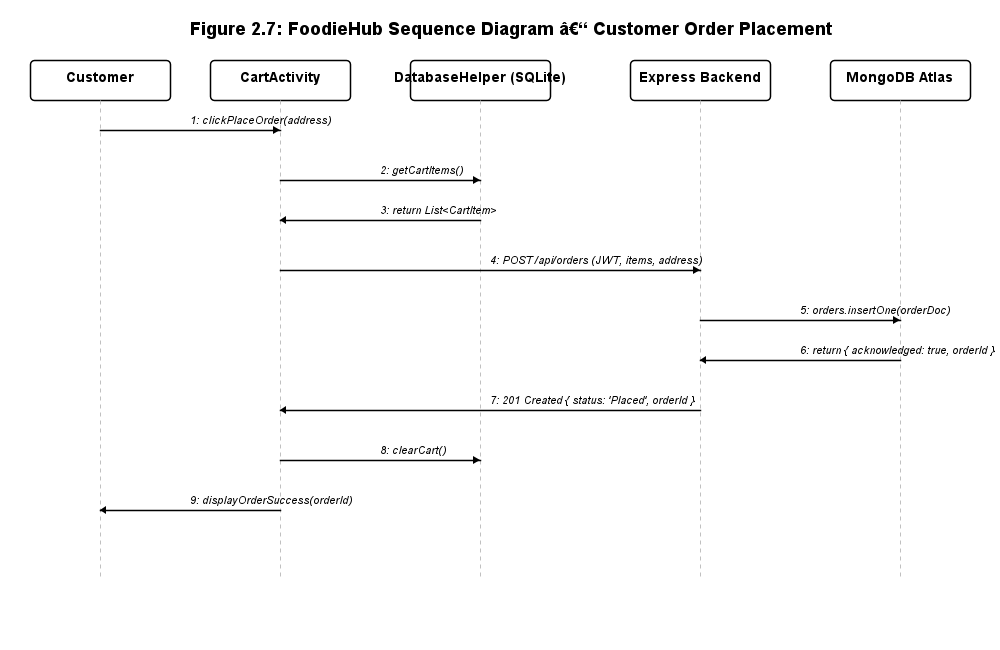
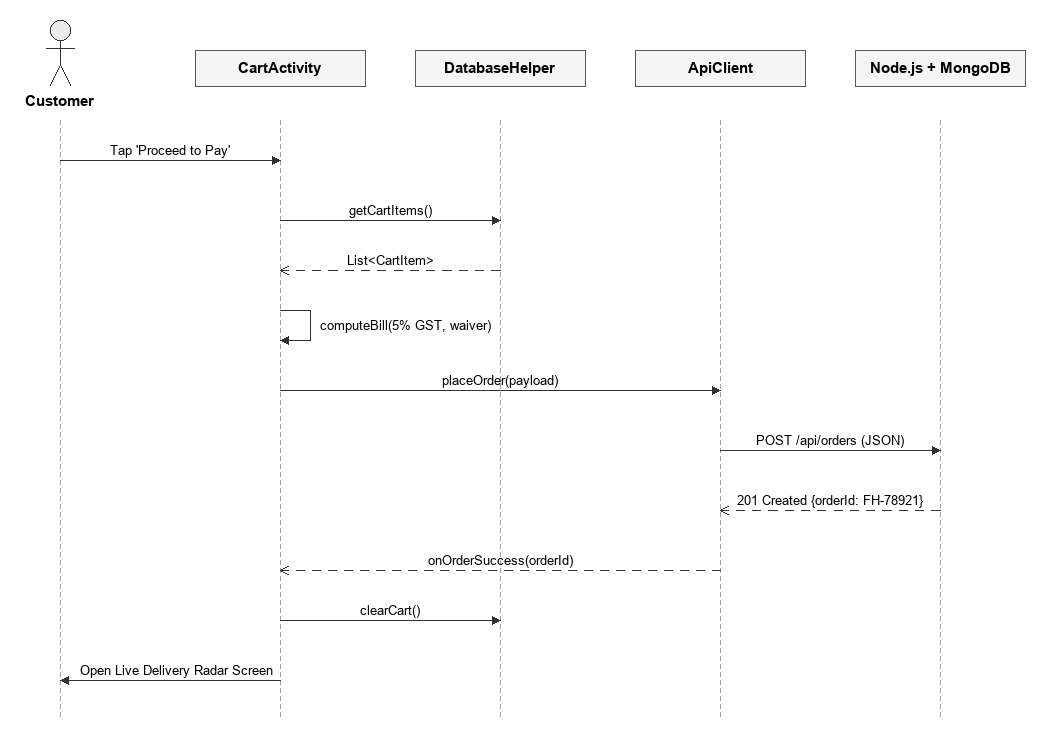
docs: regenerate academic sequence, component, and module hierarchy diagrams

diff --git a/docs/diagrams/gen_seq_comp.py b/docs/diagrams/gen_seq_comp.py
@@ -1,0 +1,161 @@
+import os
+from PIL import Image, ImageDraw, ImageFont, ImageOps
+
+font_dir = r'C:\Windows\Fonts'
+f_cls = ImageFont.truetype(os.path.join(font_dir, 'arialbd.ttf'), 15)
+f_msg = ImageFont.truetype(os.path.join(font_dir, 'arial.ttf'), 13)
+f_box = ImageFont.truetype(os.path.join(font_dir, 'arial.ttf'), 14)
+f_hdr = ImageFont.truetype(os.path.join(font_dir, 'arialbd.ttf'), 16)
+
+box_fill = (245, 245, 245)
+border_c = (90, 90, 90)
+line_c = (50, 50, 50)
+text_c = (0, 0, 0)
+
+# ==============================================================
+# 1. SEQUENCE DIAGRAM
+# ==============================================================
+w = 1100
+h = 750
+img = Image.new('RGB', (w, h), (255, 255, 255))
+draw = ImageDraw.Draw(img)
+
+cols = [
+    ('Customer', 100, True),
+    ('CartActivity', 320, False),
+    ('DatabaseHelper', 540, False),
+    ('ApiClient', 760, False),
+    ('Node.js + MongoDB', 980, False)
+]
+
+for name, cx, is_actor in cols:
+    if is_actor:
+        draw.ellipse([cx - 10, 20, cx + 10, 40], fill=(235, 235, 235), outline=line_c, width=1)
+        draw.line([cx, 40, cx, 65], fill=line_c, width=1)
+        draw.line([cx - 14, 48, cx + 14, 48], fill=line_c, width=1)
+        draw.line([cx, 65, cx - 10, 85], fill=line_c, width=1)
+        draw.line([cx, 65, cx + 10, 85], fill=line_c, width=1)
+        tb = draw.textbbox((0, 0), name, font=f_cls)
+        tw = tb[2] - tb[0]
+        draw.text((cx - tw // 2, 92), name, font=f_cls, fill=text_c)
+    else:
+        bw, bh = 170, 36
+        draw.rectangle([cx - bw//2, 50, cx + bw//2, 50 + bh], fill=box_fill, outline=border_c, width=1)
+        tb = draw.textbbox((0, 0), name, font=f_cls)
+        tw = tb[2] - tb[0]
+        th = tb[3] - tb[1]
+        draw.text((cx - tw // 2, 50 + (bh - th) // 2 - 2), name, font=f_cls, fill=text_c)
+
+for _, cx, _ in cols:
+    for y in range(120, h - 30, 8):
+        draw.line([cx, y, cx, y + 4], fill=(160, 160, 160), width=1)
+
+def send_msg(x1, x2, y, text, dotted=False):
+    if dotted:
+        dx = x2 - x1
+        steps = int(abs(dx) / 8)
+        for i in range(steps):
+            if i % 2 == 0:
+                sx = x1 + (dx * i / steps)
+                ex = x1 + (dx * (i + 1) / steps)
+                draw.line([sx, y, ex, y], fill=line_c, width=1)
+        dir_sign = 1 if x2 > x1 else -1
+        draw.line([x2, y, x2 - dir_sign * 8, y - 4], fill=line_c, width=1)
+        draw.line([x2, y, x2 - dir_sign * 8, y + 4], fill=line_c, width=1)
+    else:
+        draw.line([x1, y, x2, y], fill=line_c, width=1)
+        dir_sign = 1 if x2 > x1 else -1
+        draw.polygon([(x2, y), (x2 - dir_sign * 8, y - 4), (x2 - dir_sign * 8, y + 4)], fill=line_c)
+        
+    tb = draw.textbbox((0, 0), text, font=f_msg)
+    tw = tb[2] - tb[0]
+    draw.text(((x1 + x2)//2 - tw//2, y - 17), text, font=f_msg, fill=text_c)
+
+send_msg(100, 320, 160, "Tap 'Proceed to Pay'")
+send_msg(320, 540, 220, "getCartItems()")
+send_msg(540, 320, 270, "List<CartItem>", dotted=True)
+
+draw.line([320, 310, 350, 310], fill=line_c, width=1)
+draw.line([350, 310, 350, 340], fill=line_c, width=1)
+draw.line([350, 340, 320, 340], fill=line_c, width=1)
+draw.polygon([(320, 340), (328, 336), (328, 344)], fill=line_c)
+draw.text((360, 318), "computeBill(5% GST, waiver)", font=f_msg, fill=text_c)
+
+send_msg(320, 760, 390, "placeOrder(payload)")
+send_msg(760, 980, 450, "POST /api/orders (JSON)")
+send_msg(980, 760, 510, "201 Created {orderId: FH-78921}", dotted=True)
+send_msg(760, 320, 570, "onOrderSuccess(orderId)", dotted=True)
+send_msg(320, 540, 620, "clearCart()")
+
+draw.line([320, 680, 100, 680], fill=line_c, width=1)
+draw.polygon([(100, 680), (108, 676), (108, 684)], fill=line_c)
+draw.text((120, 663), "Open Live Delivery Radar Screen", font=f_msg, fill=text_c)
+
+inv = ImageOps.invert(img.convert('L'))
+bbox = inv.getbbox()
+pad = 25
+crop_box = (max(0, bbox[0] - pad), max(0, bbox[1] - pad), min(w, bbox[2] + pad), min(h, bbox[3] + pad))
+cropped = img.crop(crop_box)
+cropped.save(r'C:\FoodieHub\docs\diagrams\07_sequence_diagram_order.png', dpi=(300, 300))
+cropped.save(r'C:\FoodieHub\docs\diagrams\figure_2_7_academic.png', dpi=(300, 300))
+print("Sequence Diagram OK:", cropped.size)
+
+# ==============================================================
+# 2. COMPONENT DIAGRAM (4 Clean Horizontal Layers Matching Page 17)
+# ==============================================================
+cw = 1000
+ch = 680
+cimg = Image.new('RGB', (cw, ch), (255, 255, 255))
+cdraw = ImageDraw.Draw(cimg)
+
+def draw_layer_container(y, h, title, sub_boxes):
+    x = 60
+    w = 880
+    cdraw.rectangle([x, y, x + w, y + h], fill=(250, 250, 250), outline=(130, 130, 130), width=1)
+    # Title
+    cdraw.text((x + 14, y + 10), title, font=f_hdr, fill=(40, 40, 40))
+    # Sub boxes
+    sb_w = (w - 28 - (len(sub_boxes) - 1) * 16) // len(sub_boxes)
+    for i, sb_name in enumerate(sub_boxes):
+        sb_x = x + 14 + i * (sb_w + 16)
+        sb_y = y + 42
+        sb_h = h - 56
+        cdraw.rectangle([sb_x, sb_y, sb_x + sb_w, sb_y + sb_h], fill=(238, 238, 238), outline=(100, 100, 100), width=1)
+        tb = cdraw.textbbox((0, 0), sb_name, font=f_box)
+        tw = tb[2] - tb[0]
+        th = tb[3] - tb[1]
+        cdraw.text((sb_x + (sb_w - tw)//2, sb_y + (sb_h - th)//2), sb_name, font=f_box, fill=(0, 0, 0))
+
+# 1. Presentation Layer
+draw_layer_container(40, 95, "Presentation Layer (Activities + XML)", ["Login / Register", "Catalog & Explorer", "Cart & Checkout", "Delivery Radar Tracking"])
+
+# Arrow 1 down
+cdraw.line([500, 135, 500, 175], fill=line_c, width=2)
+cdraw.polygon([(500, 175), (496, 167), (504, 167)], fill=line_c)
+
+# 2. Utility Layer
+draw_layer_container(175, 95, "Utility Layer", ["SessionManager", "CartAdapter", "FoodAdapter", "OrderAdapter"])
+
+# Arrow 2 down
+cdraw.line([500, 270, 500, 310], fill=line_c, width=2)
+cdraw.polygon([(500, 310), (496, 302), (504, 302)], fill=line_c)
+
+# 3. Data Layer
+draw_layer_container(310, 95, "Data Layer", ["DatabaseHelper (SQLite Local)", "ApiClient (Retrofit HTTP Client)"])
+
+# Arrow 3 down with label
+cdraw.line([500, 405, 500, 465], fill=line_c, width=2)
+cdraw.polygon([(500, 465), (496, 457), (504, 457)], fill=line_c)
+cdraw.text((515, 428), "HTTP + JSON (port 5000)", font=f_msg, fill=(0, 0, 0))
+
+# 4. Backend Cloud Layer
+draw_layer_container(465, 95, "Backend (Node.js & MongoDB Server)", ["Express.js REST Server (server.js)", "MongoDB Atlas Cloud Database"])
+
+cinv = ImageOps.invert(cimg.convert('L'))
+cbbox = cinv.getbbox()
+cpad = 25
+ccrop_box = (max(0, cbbox[0] - cpad), max(0, cbbox[1] - cpad), min(cw, cbbox[2] + cpad), min(ch, cbbox[3] + cpad))
+ccropped = cimg.crop(ccrop_box)
+ccropped.save(r'C:\FoodieHub\docs\diagrams\08_component_diagram.png', dpi=(300, 300))
+ccropped.save(r'C:\FoodieHub\docs\diagrams\figure_2_8_academic.png', dpi=(300, 300))
+print("Component Diagram OK:", ccropped.size)
